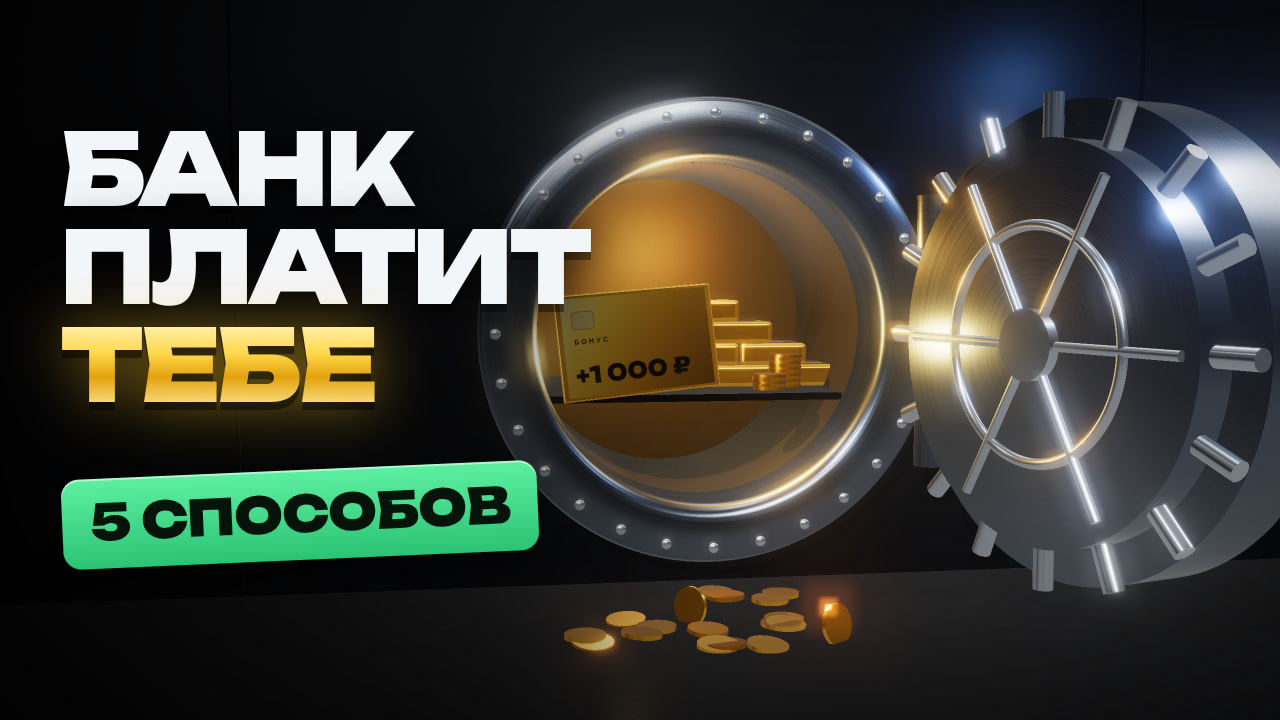
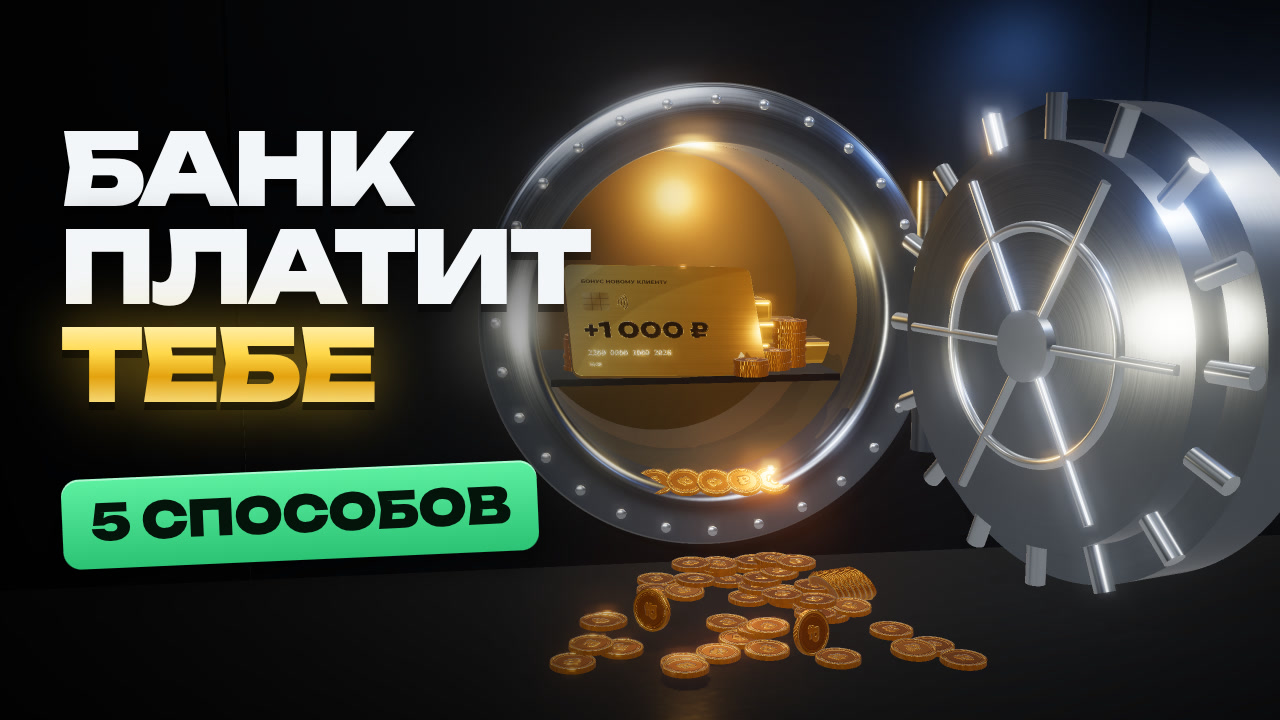
Превью №2: настоящая банковская карта (чип, бесконтакт, выпуклые цифры) лежит в сейфе на слитках; монеты с рифлёным ребром и «₽», естественная россыпь
Claude-Session: https://claude.ai/code/session_01RfCfKDkbyGyDNmw4SWPkFj

Changed region(s): [[0.3438, 0.0917, 1.0, 1.0], [0.75, 0.0, 0.8438, 0.0611], [0.9688, 0.7333, 1.0, 0.7639]]

diff --git a/youtube/02-bank-earns/thumb/vault3d.html b/youtube/02-bank-earns/thumb/vault3d.html
@@ -52,7 +52,7 @@ scene.environment = pm.fromScene(new RoomEnvironment(), 0.04).texture;
 scene.environmentIntensity = 0.38;
 
 const cam = new THREE.PerspectiveCamera(32, W / H, 0.1, 100);
-cam.position.set(-0.4, 0.8, 13.2); cam.lookAt(1.55, -0.15, 0);
+cam.position.set(-0.4, 1.55, 13.2); cam.lookAt(1.55, -0.3, 0);
 
 // ---------- процедурные текстуры: шлифовка металла (радиальная и линейная), шум бетона ----------
 let seed = 7; const rnd = () => (seed = (seed * 16807) % 2147483647) / 2147483647;
@@ -123,28 +123,73 @@ rows[0] = [-.99, -.33, .33, .99]; rows[1] = [-.66, 0, .66]; rows[2] = [-.33, .33
 rows.forEach((xs, lvl) => xs.forEach(x => { for (const zz of [-2.25, -1.9]) {
   const b = new THREE.Mesh(barGeo, gold); b.position.set(C.x + .25 + x * 1.25, shelfY + .13 + lvl * .26, zz + .3 + (lvl % 2) * .04); b.rotation.y = (rnd() - .5) * .06;
   b.castShadow = b.receiveShadow = true; scene.add(b); bars.push(b); } }));
-const coinGeo = new THREE.CylinderGeometry(.19, .19, .04, 48);
-function stack(x, z, n, y0 = shelfY) { for (let i = 0; i < n; i++) { const c = new THREE.Mesh(coinGeo, i % 2 ? gold : goldDim); c.position.set(x + (rnd() - .5) * .02, y0 + .018 + i * .036, z + (rnd() - .5) * .02);
-  c.rotation.y = rnd() * 3; c.castShadow = c.receiveShadow = true; scene.add(c); } }
-stack(C.x - 1.25, -1.4, 9); stack(C.x - 1.0, -1.15, 6); stack(C.x + 1.2, -1.35, 11); stack(C.x + .95, -1.1, 5);
+// ---------- монеты: рифлёное ребро, выпуклый кант и «₽» (bump), золото ----------
+const faceCanvas = (relief) => canvasTex(512, 512, (g, w, h) => {
+  g.fillStyle = relief ? "#808080" : "#d9a42a"; g.fillRect(0, 0, w, h);
+  const ring = (r, lw, c) => { g.strokeStyle = c; g.lineWidth = lw; g.beginPath(); g.arc(w / 2, h / 2, r, 0, 6.283); g.stroke(); };
+  ring(238, 26, relief ? "#ffffff" : "#ffe08a");                 // кант
+  for (let i = 0; i < 72; i++) { const a = i / 72 * 6.283; g.fillStyle = relief ? "#e0e0e0" : "#f5c95a"; g.beginPath(); g.arc(w / 2 + Math.cos(a) * 205, h / 2 + Math.sin(a) * 205, 4, 0, 6.283); g.fill(); }
+  ring(190, 4, relief ? "#c8c8c8" : "#c88f1c");
+  g.fillStyle = relief ? "#ffffff" : "#ffd25a"; g.font = "900 230px Unb"; g.textAlign = "center"; g.textBaseline = "middle"; g.fillText("₽", w / 2 + 6, h / 2 + 10);
+});
+const sideCanvas = (relief) => canvasTex(1024, 32, (g, w, h) => { g.fillStyle = relief ? "#606060" : "#c99325"; g.fillRect(0, 0, w, h);
+  for (let x = 0; x < w; x += 8) { g.fillStyle = relief ? "#ffffff" : "#ffd870"; g.fillRect(x, 0, 4, h); } });
+await document.fonts.load("900 230px Unb");
+const coinFaceMat = new THREE.MeshPhysicalMaterial({ color: 0xffd36a, map: faceCanvas(false), bumpMap: faceCanvas(true), bumpScale: 2.2, metalness: 1, roughness: .24, clearcoat: .3 });
+coinFaceMat.map.colorSpace = THREE.SRGBColorSpace; coinFaceMat.map.repeat.set(1, 1); coinFaceMat.bumpMap.repeat.set(1, 1);
+const coinSideMat = new THREE.MeshPhysicalMaterial({ color: 0xffcf60, map: sideCanvas(false), bumpMap: sideCanvas(true), bumpScale: 1.5, metalness: 1, roughness: .3 });
+coinSideMat.map.colorSpace = THREE.SRGBColorSpace; coinSideMat.map.repeat.set(1, 1); coinSideMat.bumpMap.repeat.set(1, 1);
+const CR = .2, CT = .045;
+const coinGeo = new THREE.CylinderGeometry(CR, CR, CT, 72);
+const coinMats = [coinSideMat, coinFaceMat, coinFaceMat];
+function coin(x, y, z, rx = 0, ry = 0, rz = 0) { const c = new THREE.Mesh(coinGeo, coinMats); c.position.set(x, y, z); c.rotation.set(rx, ry, rz); c.castShadow = c.receiveShadow = true; scene.add(c); return c; }
+function stack(x, z, n, y0 = shelfY) { for (let i = 0; i < n; i++) coin(x + (rnd() - .5) * .025, y0 + CT / 2 + i * CT * 1.02, z + (rnd() - .5) * .025, 0, rnd() * 6); }
+stack(C.x - 1.25, -1.35, 9); stack(C.x - .98, -1.1, 6); stack(C.x + 1.25, -1.3, 12); stack(C.x + 1.0, -1.05, 5); stack(C.x + .62, -.62, 4);
 
-// карта-бонус: золотой пластик с текстом (CanvasTexture), прислонена в проёме
-const drawCard = (g, w, h) => {
-  const gr = g.createLinearGradient(0, 0, w, h); gr.addColorStop(0, "#fff2b0"); gr.addColorStop(.25, "#ffd84a"); gr.addColorStop(.6, "#d99a0b"); gr.addColorStop(1, "#8a5a00");
-  g.fillStyle = gr; g.fillRect(0, 0, w, h);
-  g.fillStyle = "#e8d28c"; g.beginPath(); g.roundRect(70, 90, 150, 115, 22); g.fill(); g.strokeStyle = "rgba(120,80,0,.6)"; g.lineWidth = 4; g.stroke();
-  g.fillStyle = "rgba(60,35,0,.75)"; g.font = "800 46px Mont"; g.fillText("Б О Н У С", 72, 300);
-  g.fillStyle = "#2a1800"; g.font = "900 150px Unb"; g.fillText("+1 000 ₽", 60, 560);
+// ---------- карта: настоящая банковская — пропорции 85,6×54, скругление, чип с контактами, бесконтакт, выпуклые цифры ----------
+const CW = 2048, CH = 1292;
+const drawCard = (relief) => (g, w, h) => {
+  if (!relief) { const gr = g.createLinearGradient(0, 0, w, h); gr.addColorStop(0, "#f7e3a0"); gr.addColorStop(.3, "#e9c35a"); gr.addColorStop(.62, "#c99327"); gr.addColorStop(1, "#9a6a10");
+    g.fillStyle = gr; g.fillRect(0, 0, w, h);
+    // тонкий узор-гильош
+    g.strokeStyle = "rgba(255,245,210,.10)"; g.lineWidth = 2; for (let i = 0; i < 40; i++) { g.beginPath(); g.ellipse(w * .78, h * .2, 200 + i * 26, 120 + i * 18, -.4, 0, 6.283); g.stroke(); }
+  } else { g.fillStyle = "#808080"; g.fillRect(0, 0, w, h); }
+  // чип: золото, контактные площадки
+  if (!relief) { const cg = g.createLinearGradient(170, 330, 450, 540); cg.addColorStop(0, "#fbeab0"); cg.addColorStop(.5, "#c9a24a"); cg.addColorStop(1, "#f0d48a");
+    g.fillStyle = cg; g.beginPath(); g.roundRect(170, 330, 280, 215, 34); g.fill();
+    g.strokeStyle = "rgba(110,75,10,.75)"; g.lineWidth = 6;
+    g.beginPath(); g.moveTo(170, 400); g.lineTo(265, 400); g.moveTo(170, 475); g.lineTo(265, 475); g.moveTo(355, 400); g.lineTo(450, 400); g.moveTo(355, 475); g.lineTo(450, 475);
+    g.moveTo(265, 330); g.lineTo(265, 545); g.moveTo(355, 330); g.lineTo(355, 545); g.rect(265, 400, 90, 75); g.stroke(); }
+  // бесконтактная оплата
+  g.strokeStyle = relief ? "#c0c0c0" : "rgba(70,45,5,.75)"; g.lineWidth = 14; g.lineCap = "round";
+  for (let i = 0; i < 4; i++) { g.beginPath(); g.arc(520, 437, 34 + i * 30, -.75, .75); g.stroke(); }
+  // надписи
+  g.textBaseline = "alphabetic";
+  g.fillStyle = relief ? "#909090" : "rgba(60,35,0,.8)"; g.font = "800 64px Mont"; g.fillText("БОНУС НОВОМУ КЛИЕНТУ", 170, 220);
+  g.fillStyle = relief ? "#ffffff" : "#3a2400"; g.font = "900 250px Unb"; g.fillText("+1 000 ₽", 150, 860);
+  g.font = "800 92px Mono"; g.fillStyle = relief ? "#f0f0f0" : "#fff3c8"; g.fillText("2200  0000  1000  2026", 170, 1060);
+  g.font = "700 54px Mono"; g.fillText("10/29", 170, 1180);
+  // абстрактный знак (не логотип реальной платёжной системы)
+  if (!relief) { g.fillStyle = "rgba(255,248,220,.85)"; g.beginPath(); g.moveTo(1700, 1180); g.lineTo(1800, 1020); g.lineTo(1900, 1180); g.closePath(); g.fill();
+    g.fillStyle = "rgba(90,60,10,.6)"; g.beginPath(); g.moveTo(1760, 1180); g.lineTo(1860, 1020); g.lineTo(1960, 1180); g.closePath(); g.fill(); }
 };
-// шрифты — до рисования текстуры, иначе canvas возьмёт запасной шрифт
-await document.fonts.load("900 150px Unb"); await document.fonts.load("800 46px Mont");
-const cardTex = canvasTex(1024, 646, drawCard); cardTex.repeat.set(1, 1); cardTex.colorSpace = THREE.SRGBColorSpace;
-const card = new THREE.Group();
-const cardBody = new THREE.Mesh(new RoundedBoxGeometry(2.0, 1.26, .035, 4, .08), gold); card.add(cardBody);
-const cardFace = new THREE.Mesh(new THREE.PlaneGeometry(1.86, 1.17), new THREE.MeshPhysicalMaterial({ map: cardTex, metalness: .85, roughness: .25, clearcoat: 1, clearcoatRoughness: .1 }));
-cardFace.position.z = .02; card.add(cardFace);
-card.position.set(C.x - .75, shelfY + .62, -.15); card.rotation.set(-.12, .2, .1); card.scale.setScalar(.9);
-card.traverse(o => { o.castShadow = true; }); scene.add(card);
+await document.fonts.load("800 92px Mono"); await document.fonts.load("900 250px Unb"); await document.fonts.load("800 64px Mont");
+const cardMap = canvasTex(CW, CH, drawCard(false)), cardBump = canvasTex(CW, CH, drawCard(true));
+for (const t of [cardMap, cardBump]) t.repeat.set(1, 1); cardMap.colorSpace = THREE.SRGBColorSpace;
+const cardW = 1.712, cardH = 1.08, cardT = .03, rad = .1;
+const cs = new THREE.Shape(); { const x = -cardW / 2, y = -cardH / 2; cs.moveTo(x + rad, y); cs.lineTo(x + cardW - rad, y); cs.quadraticCurveTo(x + cardW, y, x + cardW, y + rad);
+  cs.lineTo(x + cardW, y + cardH - rad); cs.quadraticCurveTo(x + cardW, y + cardH, x + cardW - rad, y + cardH); cs.lineTo(x + rad, y + cardH); cs.quadraticCurveTo(x, y + cardH, x, y + cardH - rad);
+  cs.lineTo(x, y + rad); cs.quadraticCurveTo(x, y, x + rad, y); }
+const cardGeo = new THREE.ExtrudeGeometry(cs, { depth: cardT, bevelEnabled: true, bevelThickness: .006, bevelSize: .006, bevelSegments: 3, curveSegments: 24 });
+// UV лицевой стороны: из координат вершин в [0,1]
+{ const pos = cardGeo.attributes.position, uv = cardGeo.attributes.uv; for (let i = 0; i < pos.count; i++) uv.setXY(i, (pos.getX(i) + cardW / 2) / cardW, (pos.getY(i) + cardH / 2) / cardH); }
+const cardFaceMat = new THREE.MeshPhysicalMaterial({ map: cardMap, bumpMap: cardBump, bumpScale: 3, metalness: .85, roughness: .36, roughnessMap: brushedLin, clearcoat: .35, clearcoatRoughness: .3 });
+const cardEdgeMat = new THREE.MeshPhysicalMaterial({ color: 0xb98a2a, metalness: 1, roughness: .3 });
+const card = new THREE.Mesh(cardGeo, [cardFaceMat, cardEdgeMat]); card.geometry.translate(0, 0, -cardT / 2);
+// лежит внутри сейфа: нижним краем на полке, верхним — на слитках, лицом к зрителю
+card.scale.setScalar(1.32); card.position.set(C.x - .32, shelfY + .6, -.98); card.rotation.set(-.6, .1, .03);
+card.castShadow = card.receiveShadow = true; scene.add(card);
+const cardFill = new THREE.PointLight(0xfff0d0, 7, 6, 1.2); cardFill.position.set(C.x - 1.6, shelfY + .6, 2.2); scene.add(cardFill);   // подсветка карты, чтобы читалась
 
 // ---------- дверь: толстый диск, ригели по кромке, механизм на внутренней стороне ----------
 const DR = R0 + .3, DT = .7;
@@ -173,16 +218,25 @@ for (const y of [-1.1, 1.1]) { const h = new THREE.Mesh(new THREE.CylinderGeomet
 
 // ---------- пол и монеты, высыпавшиеся наружу ----------
 const floor = new THREE.Mesh(new THREE.PlaneGeometry(40, 30), floorMat); floor.rotation.x = -Math.PI / 2; floor.position.y = FLOOR; floor.receiveShadow = true; scene.add(floor);
-for (let i = 0; i < 16; i++) { const c = new THREE.Mesh(coinGeo, i % 3 ? gold : goldDim);
-  c.position.set(C.x - 1.6 + rnd() * 2.6, FLOOR + .018 + (i % 4 === 0 ? .03 : 0), .6 + rnd() * 2.2); c.rotation.set((rnd() - .5) * .2, rnd() * 3, (rnd() - .5) * .2); c.castShadow = c.receiveShadow = true; scene.add(c); }
-for (const [x, z, a] of [[C.x - .5, 1.6, .9], [C.x + .7, 2.4, -.6]]) { const c = new THREE.Mesh(coinGeo, gold); c.position.set(x, FLOOR + .15, z); c.rotation.set(Math.PI / 2 - .25, 0, a); c.castShadow = true; scene.add(c); }
+// россыпь у порога: плотно у проёма, реже к зрителю; монеты ложатся друг на друга, пара — на ребре, один упавший столбик
+const placed = [];
+for (let i = 0; i < 46; i++) {
+  const t = Math.pow(rnd(), 1.6), x = C.x - .2 + (rnd() - .5) * (1.2 + t * 3.2), z = .55 + t * 3.0;
+  let y = FLOOR + CT / 2; for (const p of placed) if (Math.hypot(p.x - x, p.z - z) < CR * 1.7) y = Math.max(y, p.y + CT * .95);
+  const tilt = y > FLOOR + CT ? .12 : .03;
+  coin(x, y, z, (rnd() - .5) * tilt, rnd() * 6, (rnd() - .5) * tilt); placed.push({ x, y, z });
+}
+for (let i = 0; i < 7; i++) coin(C.x + .9 + i * .05, FLOOR + CR * .62 + i * .012, 1.5 + i * .02, 0, .5, -1.0);   // упавший столбик «веером»
+coin(C.x - .95, FLOOR + CR, 2.1, Math.PI / 2 - .15, 0, .8);                                                        // монета на ребре
+coin(C.x + .35, FLOOR + CR, 2.9, Math.PI / 2 - .2, 0, -.5);
+for (let i = 0; i < 5; i++) coin(C.x - .6 + i * .32, C.y - R0 + .07, .05 + rnd() * .15, .5, rnd() * 6, 0);         // выкатываются через порог
 
 // ---------- свет ----------
 scene.add(new THREE.HemisphereLight(0x3a4250, 0x0a0806, .35));
 const key = new THREE.DirectionalLight(0xdfe8ff, 1.6); key.position.set(-6, 7, 8); key.castShadow = true;
 key.shadow.mapSize.set(2048, 2048); Object.assign(key.shadow.camera, { left: -8, right: 8, top: 8, bottom: -8 }); key.shadow.bias = -.0004; scene.add(key);
-const inside = new THREE.PointLight(0xffb84a, 20, 9, 1.6); inside.position.set(C.x, C.y + .9, -1.2); inside.castShadow = true; scene.add(inside);
-const inside2 = new THREE.PointLight(0xffd070, 6, 6, 1.8); inside2.position.set(C.x - .8, C.y - .2, -.4); scene.add(inside2);
+const inside = new THREE.PointLight(0xffb84a, 20, 9, 1.6); inside.position.set(C.x + .3, C.y + 1.25, -2.4); inside.castShadow = true; scene.add(inside);
+const inside2 = new THREE.PointLight(0xffd070, 6, 6, 1.8); inside2.position.set(C.x + 1.25, C.y + .4, -.7); scene.add(inside2);
 const spill = new THREE.SpotLight(0xffb040, 55, 16, .62, .7, 1.4); spill.position.set(C.x, C.y + .3, -2.2); spill.target.position.set(C.x - .6, FLOOR, 4.5);
 spill.castShadow = true; spill.shadow.mapSize.set(2048, 2048); scene.add(spill, spill.target);
 const rim = new THREE.PointLight(0x7fb0ff, 9, 14, 1.5); rim.position.set(7.5, 3.5, 4); scene.add(rim);
